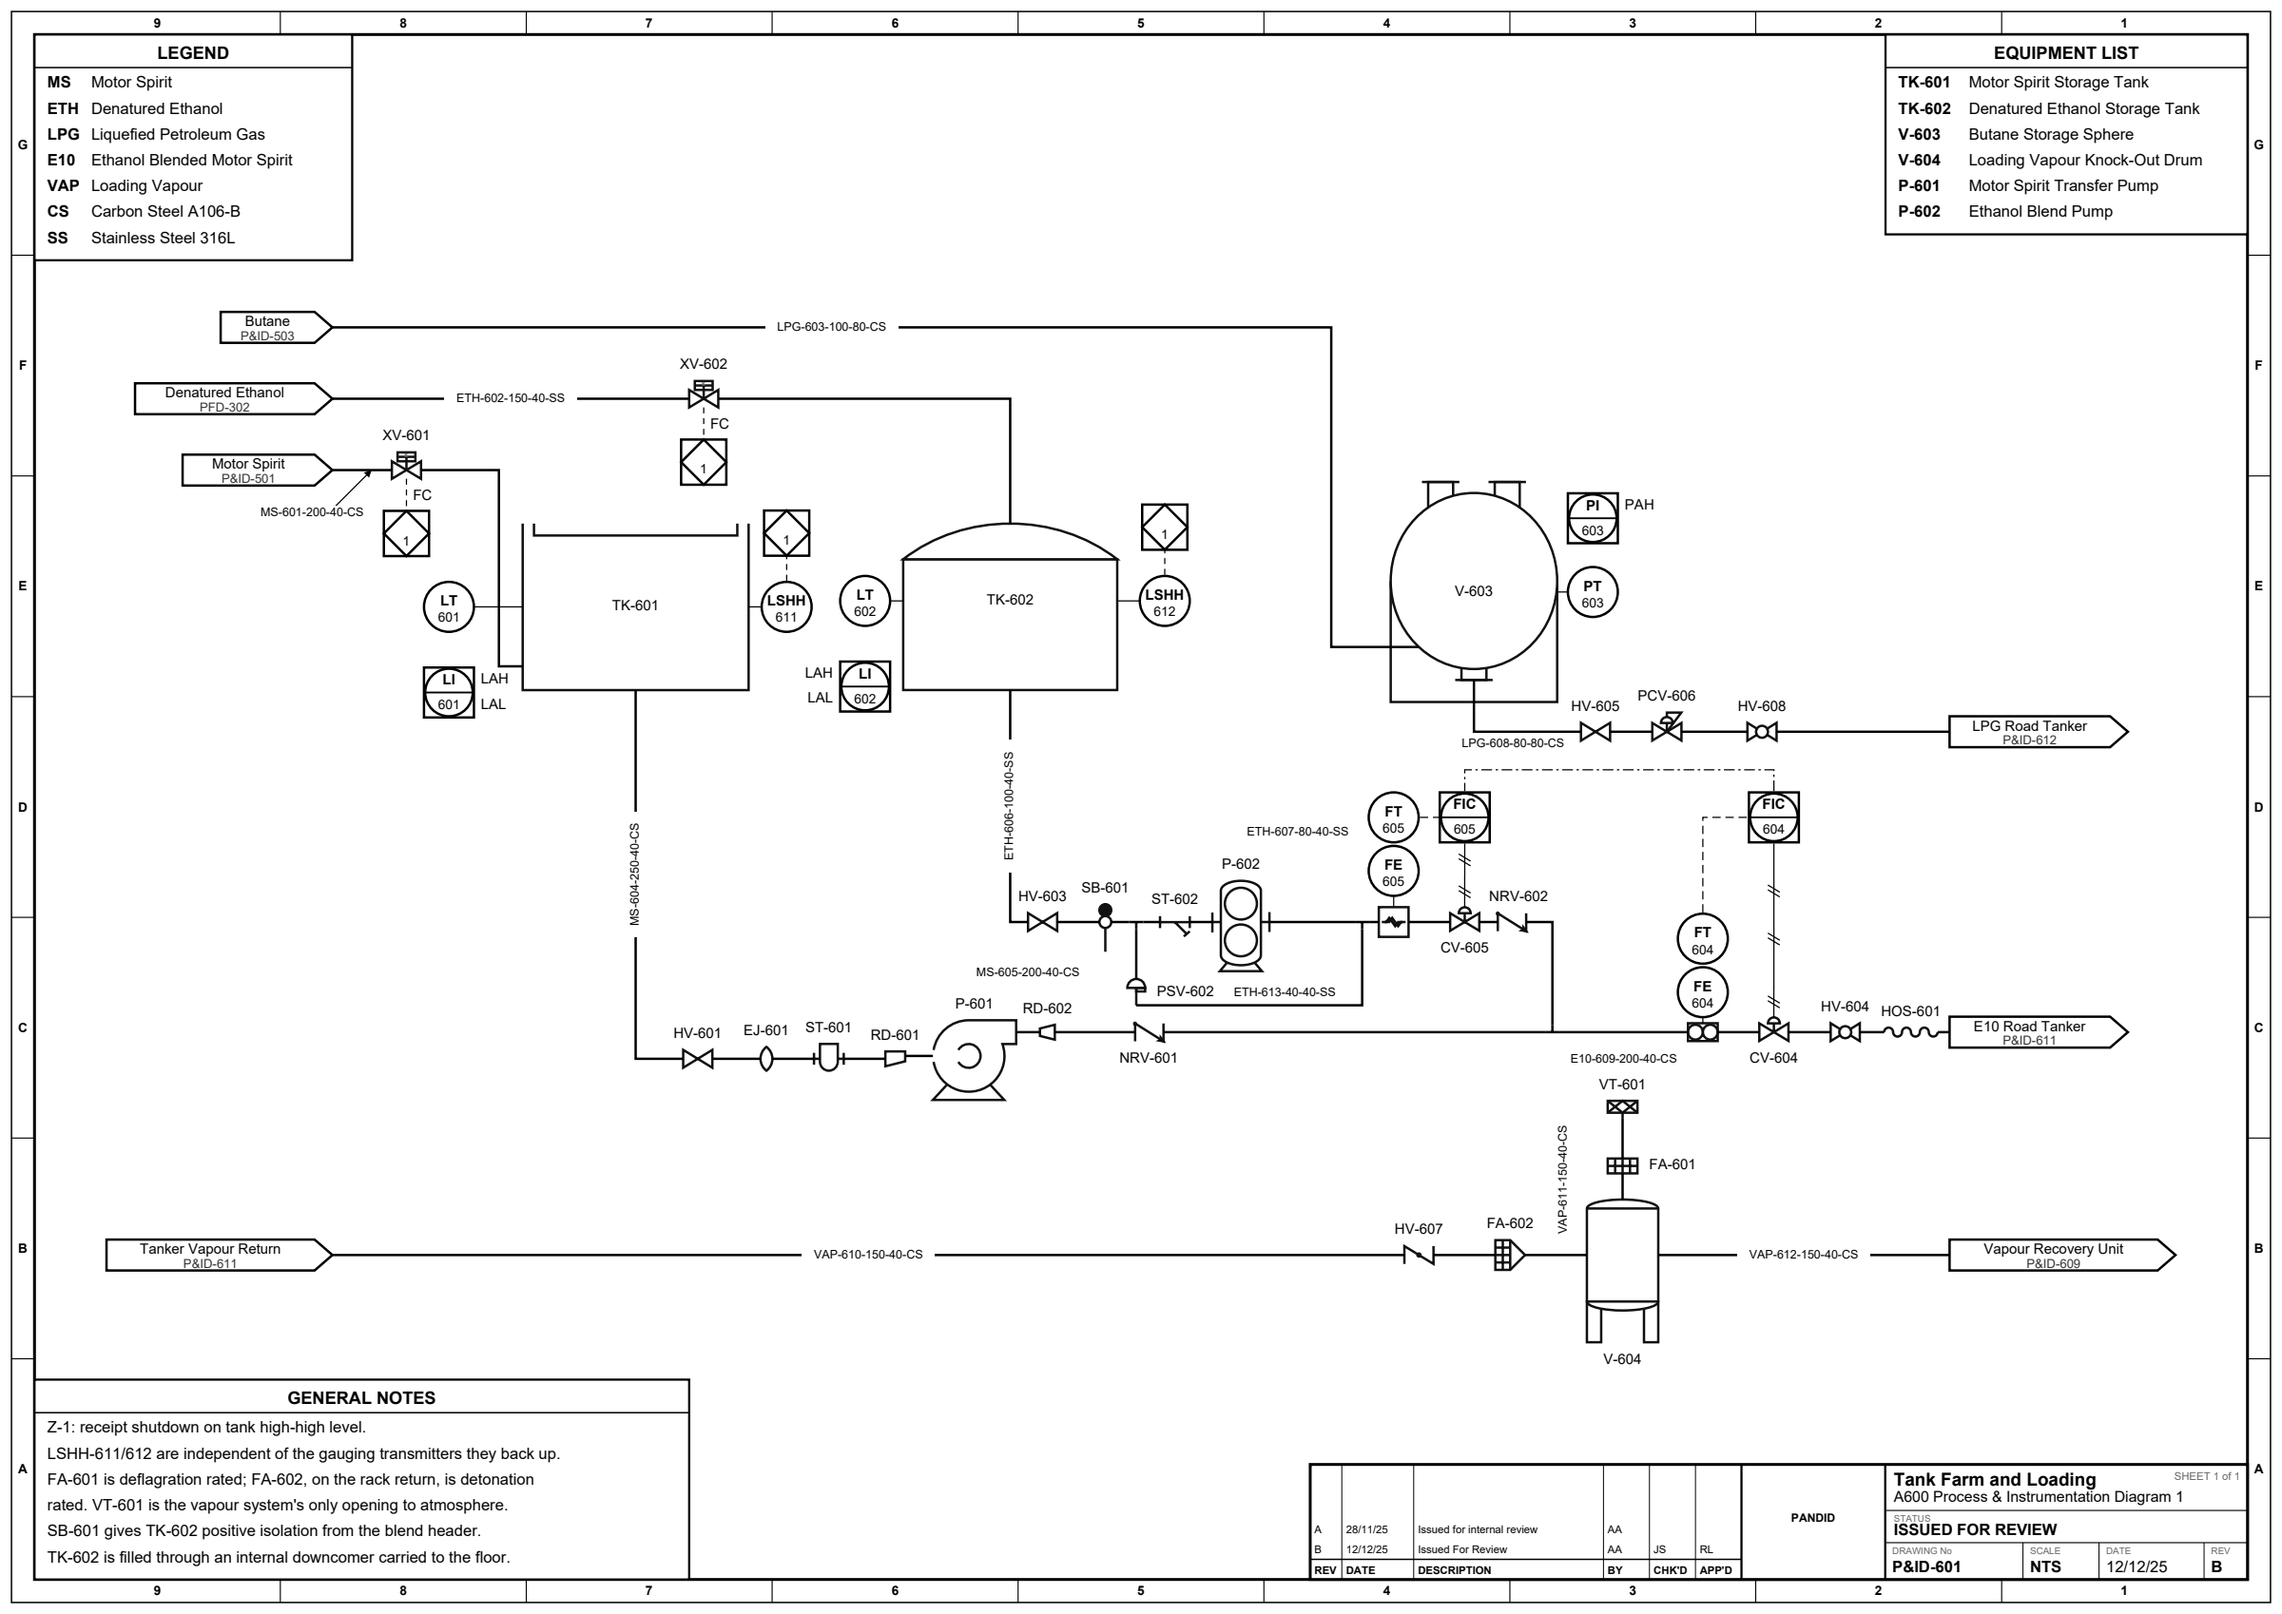
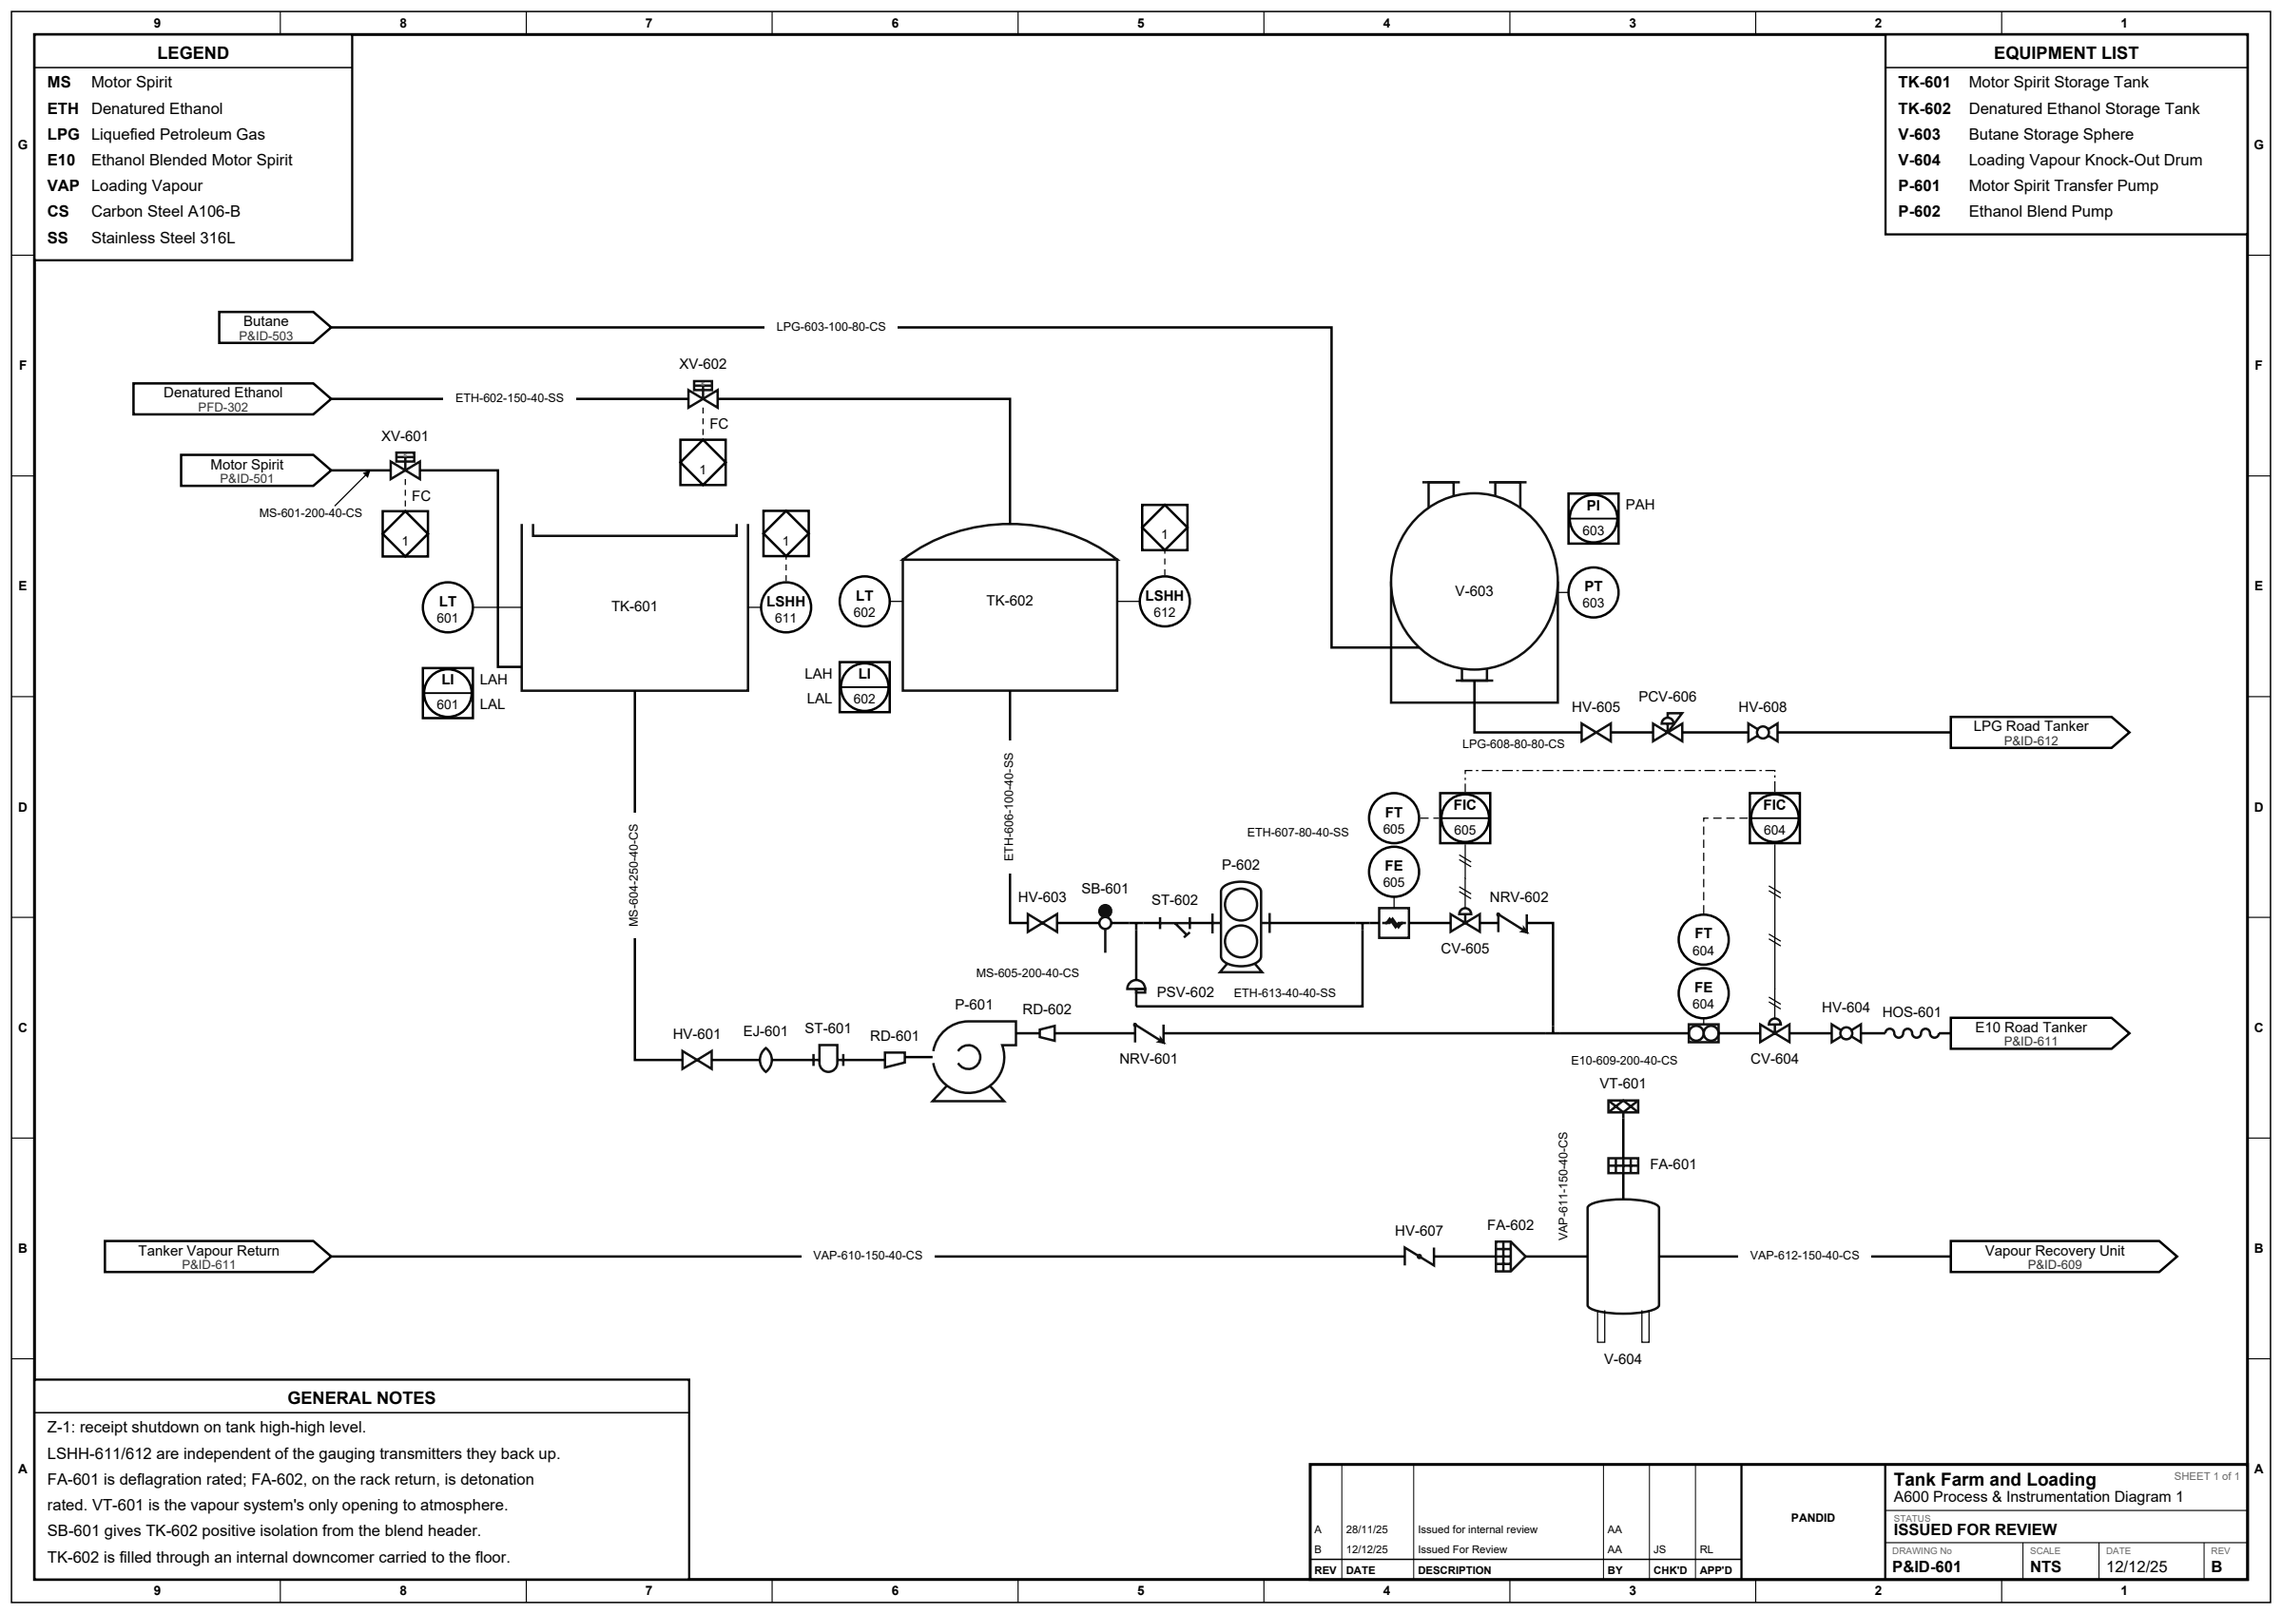
docs(examples): write the last two deprecated spellings the current way
Two calls in the corpus were still written in a spelling that warns today
and raises at 0.2.0. They are not the same kind of change, and the
difference is the whole of this PR.

examples/13_mineral_dewatering.py's thickener is written GravitySeparator
and is fixed by the convenience-class guard, not here. What was left is
its golden fixture, which spells the same drum
Separator(variant="gravity"). That is a rename and nothing else --
characteristic= draws that body to the character -- so
tests/golden/13_mineral_dewatering.svg does not move, and it does not.

examples/14_tank_farm.py's V-604 is a redraw, and deliberately.
Vessel(supports="leg") composes ISO item 1.16 X8002 -- a dished-end
vessel with two item 26.1 C2005 channel legs under it -- where
variant="legs" reached draw.io's vessel_(dished_ends,_legs) stencil
approximating the same equipment. The composition is the standard's own
construction, it is what makes a bracket and a ring reachable at all, and
it works on every vessel variant where the stencil worked on one. The
drum keeps its five nozzles in the same places and every line into it.

So tests/golden/14_tank_farm.svg moves, by thirty lines: V-604's symbol,
its two nozzle stubs, its two labels, and the sheet's fit scale, which
shifts 0,15% because the drawing's bounds changed. Nothing else on the
sheet moves. docs/gallery/14_tank_farm.* is re-rendered with it.

The CHANGELOG's Deprecated section said of all six retirements that "each
[…]

diff --git a/tests/test_golden.py b/tests/test_golden.py
@@ -1483,8 +1483,10 @@ def _mineral_dewatering() -> Flowsheet:
 
     concentrate = fs.add(units.Feed("Flotation Concentrate", reference="PFD-302"))
     floc = fs.add(units.Tee(branch="inlet"))
+    # ``characteristic="gravity"``, not the retired ``variant="gravity"``:
+    # the same drawing to the character, so this golden does not move.
     thickener = fs.add(
-        units.Separator("TH-401", variant="gravity", description="Concentrate Thickener")
+        units.Separator("TH-401", characteristic="gravity", description="Concentrate Thickener")
     )
     overflow = fs.add(units.Product("Recovered Water", reference="PCD-402"))
 
@@ -1750,7 +1752,7 @@ def _tank_farm() -> Flowsheet:
     v604 = fs.add(
         units.Vessel(
             "V-604",
-            variant="legs",
+            supports="leg",
             width=60,
             height=120,
             description="Loading Vapour Knock-Out Drum",

diff --git a/examples/14_tank_farm.py b/examples/14_tank_farm.py
@@ -60,7 +60,10 @@ def main():
                         description="Denatured Ethanol Storage Tank"))
     v603 = fs.add(Tank("V-603", variant="sphere", width=140, height=185,
                        label_pos="center", description="Butane Storage Sphere"))
-    v604 = fs.add(Vessel("V-604", variant="legs", width=60, height=120,
+    # ``supports="leg"`` rather than the retired ``variant="legs"``: the
+    # drum stands on ISO item 26.1's channel-section legs, composed under
+    # the shell the way item 1.16 X8002 draws them.
+    v604 = fs.add(Vessel("V-604", supports="leg", width=60, height=120,
                          description="Loading Vapour Knock-Out Drum"))
 
     # --- Rotating -----------------------------------------------------

diff --git a/CHANGELOG.md b/CHANGELOG.md
@@ -114,6 +114,29 @@ and this project adheres to [Semantic Versioning](https://semver.org/spec/v2.0.0
 
 ### Changed
 
+- **No example is written in a deprecated spelling any more, and one sheet
+  redraws for it.** The two that were: `examples/14_tank_farm.py`'s knock-out
+  drum V-604, and the thickener in `13_mineral_dewatering.py`'s golden fixture.
+
+  The thickener is a rename and nothing else — `Separator(characteristic=…)`
+  draws that body to the character, so `tests/golden/13_mineral_dewatering.svg`
+  does not move.
+
+  V-604 is a **redraw**, and deliberately: `Vessel(supports="leg")` composes
+  ISO item 1.16 X8002 — a dished-end vessel with two item 26.1 C2005 channel
+  legs under it — where `variant="legs"` reached draw.io's
+  `vessel_(dished_ends,_legs)` stencil. The drum keeps its five nozzles in the
+  same places and every line into it, and it gains a shell drawn to the
+  standard's construction with the legs open at the top where the vessel closes
+  them, at the detail weight rather than the outline's. Thirty lines of
+  `tests/golden/14_tank_farm.svg` move: V-604's symbol, its two nozzle stubs,
+  its two labels and the sheet's own fit scale, which shifts 0,15 % because the
+  drawing's bounds changed. Nothing else on the sheet does.
+
+  A deprecated spelling in an example is a recommendation, and this one had
+  until 0.2.0 to become a refusal. Moving it now is the sheet moving while
+  somebody is looking at it.
+
 - **`reactor/default` is a stirred tank drawn as a stirred tank.** It was
   draw.io's "Mixing Reactor": a rectangle with a V bottom and the stirrer's
   motor perched in a box outside the shell. It is now the same dished-end
@@ -228,8 +251,22 @@ and this project adheres to [Semantic Versioning](https://semver.org/spec/v2.0.0
 
 Six `variant=` spellings that named a **part** rather than a body, each moved
 to the keyword that names the part. All work throughout 0.1.3 and are removed
-in 0.2.0; each draws what it always drew, so no sheet moves until it is
-deleted.
+in 0.2.0.
+
+**Three of the six redraw, and that is the point of them.** The keyword builds
+ISO's own composition — a vessel outline with a group-26 element under it, which
+is what items 1.16–1.19 are — where the `variant=` spelling reached a vendored
+draw.io stencil approximating the same equipment. So `Vessel(supports="leg")`,
+`Vessel(supports="skirt")` and `Reactor(internals="packing")` are the standard's
+drawing rather than the stencil's: a slightly wider shell, and the support or the
+bed drawn to ISO's construction at ISO 10628-1 §5.3.1 c)'s detail weight rather
+than at the outline's. Same equipment, same nozzles, a sheet that moves. The
+three `Separator(characteristic=…)` spellings are the other kind — the same
+drawing to the character, since that body was already composed.
+
+So a sheet on one of the three does move, and it moves when the author edits it
+rather than at 0.2.0. `examples/14_tank_farm.py` is the worked case: see the
+entry under **Changed**.
 
 - **`Vessel(variant="legs")` → `Vessel(supports="leg")`** and
   **`Vessel(variant="skirted")` → `Vessel(supports="skirt")`.** ISO group 1
